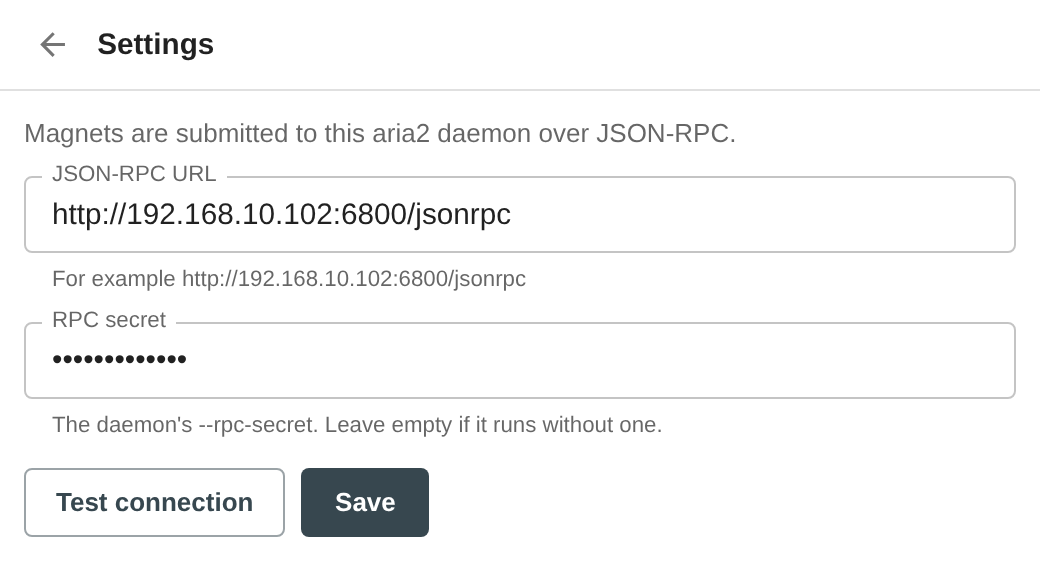
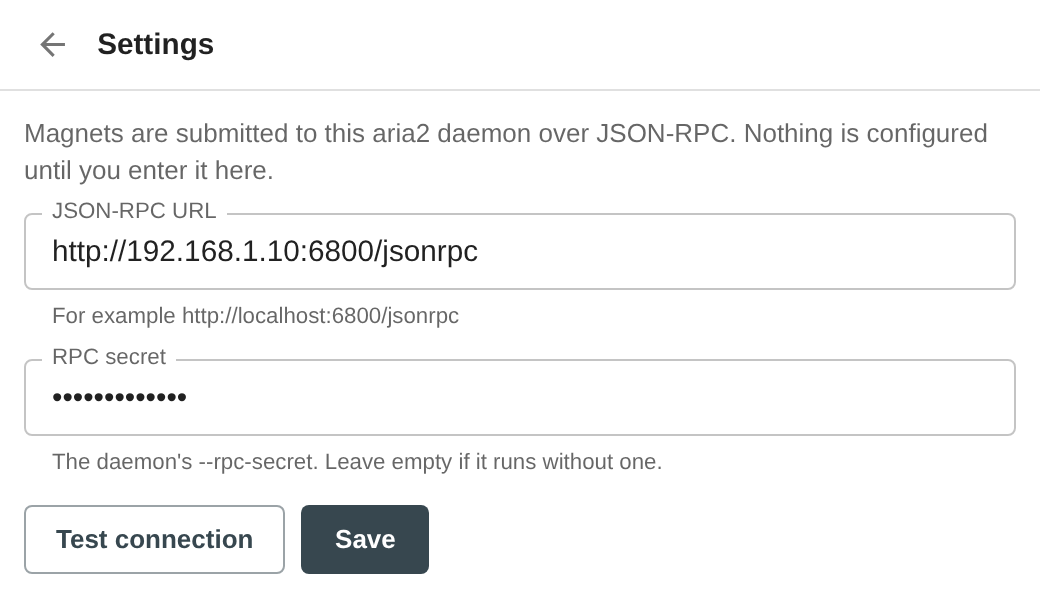
docs: describe the aria2 endpoint as user-supplied

diff --git a/scripts/harness/main.tsx b/scripts/harness/main.tsx
@@ -18,7 +18,7 @@ const tabs = FIXTURE_SOURCES.map((source) => ({
 }));
 
 const store: Record<string, unknown> = {
-  aria2Settings: { endpoint: "http://192.168.10.102:6800/jsonrpc", secret: "shown-as-dots" },
+  aria2Settings: { endpoint: "http://192.168.1.10:6800/jsonrpc", secret: "shown-as-dots" },
 };
 
 (globalThis as unknown as { chrome: unknown }).chrome = {

diff --git a/README.md b/README.md
@@ -47,8 +47,8 @@ popup opens, so closing a tab removes it, and a page whose contents changed repo
   configuration.
 - It does not keep a history, a queue, or a list of what you sent. Nothing survives closing the
   popup except the aria2 connection settings.
-- It sends nothing anywhere except the aria2 endpoint you configure. There is no analytics, no
-  telemetry, and no third-party request of any kind.
+- It sends nothing anywhere except the aria2 endpoint you configure, and it ships with none
+  configured. There is no analytics, no telemetry, and no third-party request of any kind.
 
 ## Requirements
 
@@ -74,23 +74,24 @@ rebuilds on save, but Chrome still needs the reload click.
 
 ## Connecting to aria2
 
-Open the popup and click the settings icon.
+The extension ships with no endpoint configured. Until you enter one, **Send to aria2** stays
+disabled and the popup says so; **Copy** works regardless. Open the popup and click the settings
+icon.
 
 <img src="docs/popup-settings.png" width="520" alt="The settings pane, with the JSON-RPC URL and RPC secret fields" />
 
-- **JSON-RPC URL** — the full path, for example `http://192.168.10.102:6800/jsonrpc`. That
-  address is the shipped default and is the one origin the manifest grants outright, so it works
-  with no permission prompt.
+- **JSON-RPC URL** — the full path, for example `http://localhost:6800/jsonrpc` or
+  `http://192.168.1.10:6800/jsonrpc` for a daemon on another machine.
 - **RPC secret** — the value passed to aria2's `--rpc-secret`, without any prefix. Leave it empty
   if the daemon runs without one.
 
 **Test connection** calls `aria2.getVersion` and shows the version the daemon reports, which
 confirms the URL, the secret, and the network path in one step. **Save** stores both values.
 
-Testing or saving an endpoint other than the default asks Chrome for permission to reach that
-host, and Chrome sometimes closes the popup to show that prompt. **Save** writes what you typed
-before the prompt appears, so reopening the popup shows your values again. If you granted the
-permission, you are done; if the popup closed before you could, press Save once more.
+Testing or saving asks Chrome for permission to reach that host, since the manifest grants no
+aria2 origin in advance. Chrome sometimes closes the popup to show that prompt. **Save** writes
+what you typed before the prompt appears, so reopening the popup shows your values again. If you
+granted the permission, you are done; if the popup closed before you could, press Save once more.
 
 ### About the secret
 
@@ -134,8 +135,7 @@ The text is the fallback.
 |---|---|
 | `storage` | Holds the aria2 URL and secret. Nothing else is stored. |
 | `https://javdb.com/v/*` | Injects the content script, and lets the popup see the title and URL of javdb video tabs. This is narrower than the `tabs` permission, which would expose every tab. |
-| `http://192.168.10.102:6800/*` | The default aria2 endpoint, granted so the common case needs no prompt. |
-| `optional_host_permissions` (`http://*/*`, `https://*/*`) | Lets the extension ask for one origin at a time. Both **Test connection** and **Save** request permission for whatever endpoint is in the field, and only for that host. |
+| `optional_host_permissions` (`http://*/*`, `https://*/*`) | The only way the extension reaches aria2. It asks for one origin at a time: **Test connection** and **Save** request permission for whatever endpoint is in the field, and for nothing else. No aria2 host is granted in the manifest, so the package carries no address of anyone's. |
 
 ## Development
 
